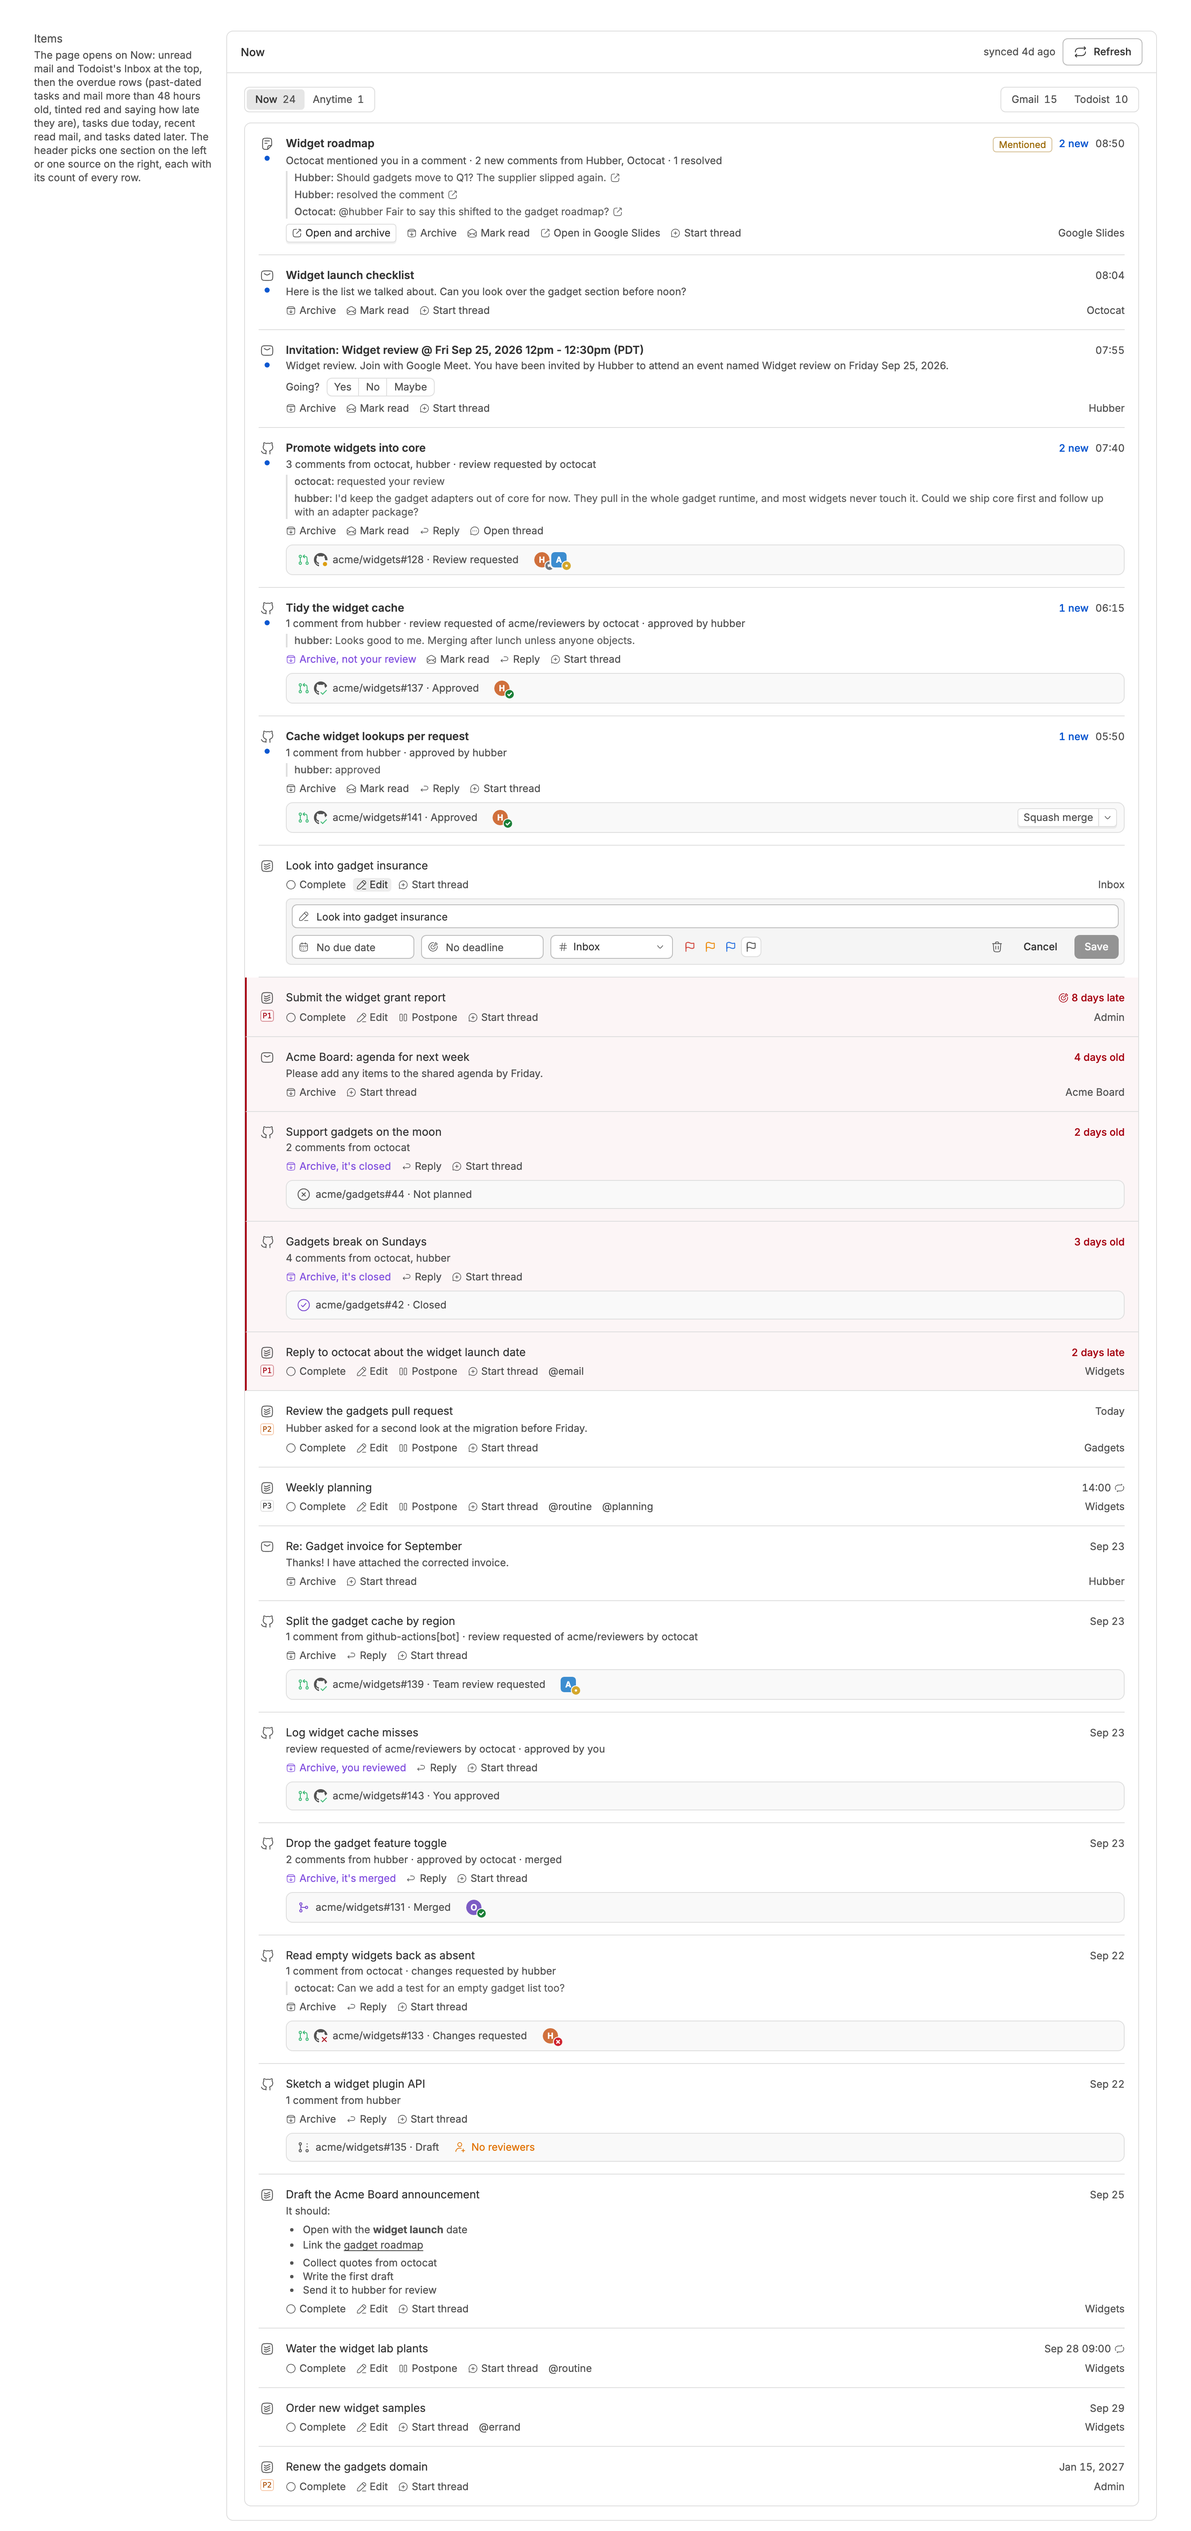
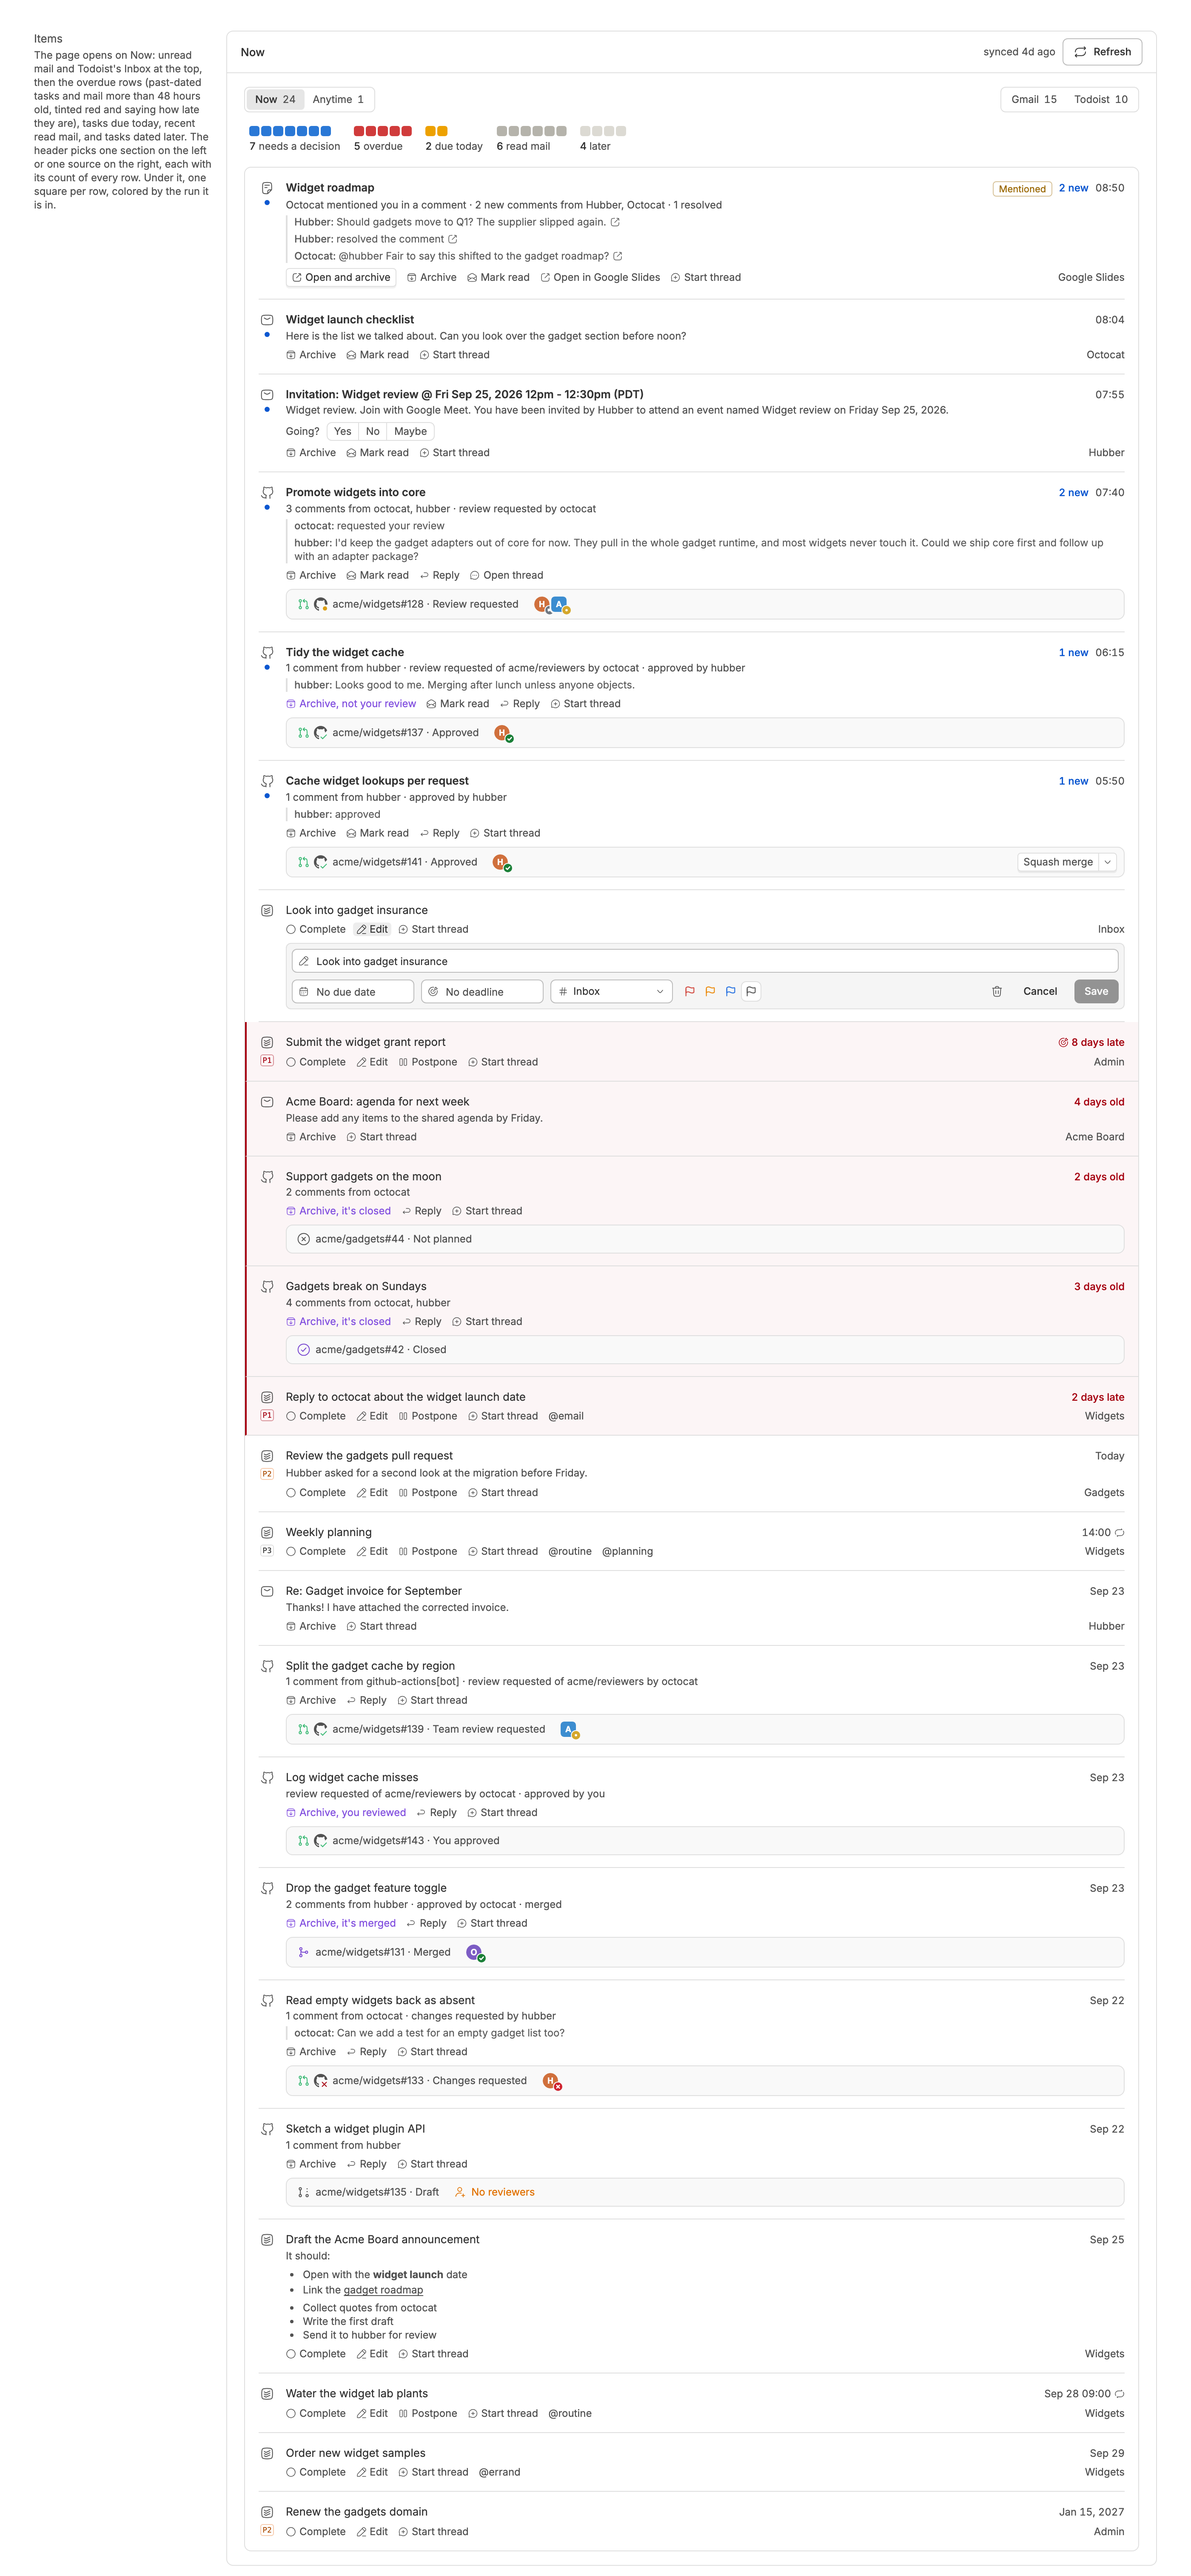
61943b7 Show one square per row above the Now section, and filter by its runs
danielbachhuber/bb-plugins@61943b74d2b0b0d741ea23d00d5fbc157c9d9189

Captured with uncommitted changes in the bb-plugins checkout.

diff --git a/now/README.md b/now/README.md
@@ -2,7 +2,7 @@
 
 # Now
 
-One list of what needs doing now, from Todoist and your Gmail inbox, with GitHub notifications gathered per pull request or issue, showing each pull request's reviewers, and Google Docs comments per document. Overdue tasks, and mail left in the inbox more than two days, are tinted red and say how late they are. Todoist descriptions render as Markdown, with open subtasks listed beneath. Complete, rename, reschedule, postpone, reprioritize, move, or delete tasks, read an email in full beside the list, archive email or mark it read, answer calendar invitations, reply on GitHub, merge your own pull requests, and start a thread from any row.
+One list of what needs doing now, from Todoist and your Gmail inbox, with GitHub notifications gathered per pull request or issue, showing each pull request's reviewers, and Google Docs comments per document. Overdue tasks, and mail left in the inbox more than two days, are tinted red and say how late they are. A square per row above the list shows how Now splits into what needs a decision, overdue, due today, read mail, and later, and pressing a run shows only its rows. Todoist descriptions render as Markdown, with open subtasks listed beneath. Complete, rename, reschedule, postpone, reprioritize, move, or delete tasks, read an email in full beside the list, archive email or mark it read, answer calendar invitations, reply on GitHub, merge your own pull requests, and start a thread from any row.
 
 Source: [`bb-plugin-now`](https://github.com/danielbachhuber/bb-plugins/tree/main/bb-plugin-now)
 
@@ -31,6 +31,12 @@ The Email tab before any email is opened in it.
 ### Default
 
 ![Default](item-list--default.png)
+
+### Filtered to a run
+
+Pressing a run of squares under the toggles shows only its rows: here, the overdue ones.
+
+![Filtered to a run](item-list--filtered-to-a-run.png)
 
 ### Sections
 
